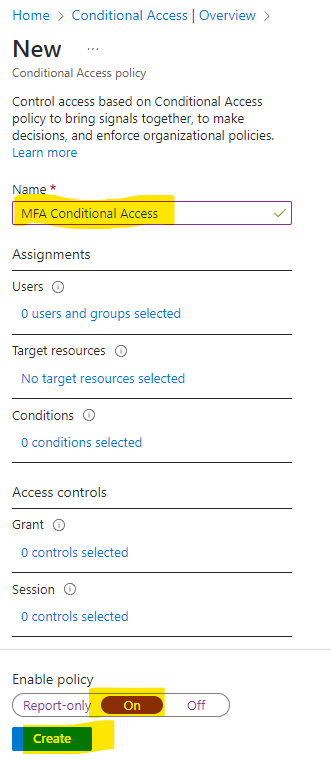
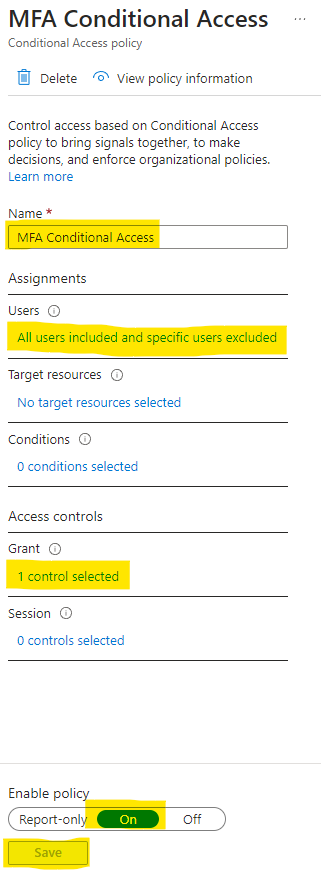
vault backup: 2023-10-13 11:36:56

diff --git a/HowTo/Office 365 Migration with BitTitan/Office 365 Tenant End Point Preparation (Source or Destination).md b/HowTo/Office 365 Migration with BitTitan/Office 365 Tenant End Point Preparation (Source or Destination).md
@@ -91,7 +91,7 @@ Example:
 
 ## Conditional Access Policy Setup
 Prerequisite: Tenant must have a Microsoft Entra ID P2 license or equivalent - to be able to create conditional access policies.  
-**Location: Office365\Microsoft Entra Admin Center\Protection\Conditional Access\**
+**Location: Office365\Microsoft Entra Admin Center\Protection\Conditional Access**
 - *These instructions assume that this is a new tenant or a tenant that just had the Azure Security Default disabled.  Further careful analysis needs to be done to tenant that already have conditional access policies configured!*
 
 **USE CAUTION - YOU HAVE BEEN WARNED!**
@@ -101,13 +101,13 @@ Prerequisite: Tenant must have a Microsoft Entra ID P2 license or equivalent - t
 Conditional AccessPolicy Setup:
 1. Select 'Create New Policy'
 ![[conditionalaccess1.png]]
-2. Name the policy something relevant: 'MFA Conditional Access'
+2. Name the policy something relevant: 'MFA Conditional Access'. Highlighted areas will need to be edited. 
 ![[conditionalaccess2.png]]
 3. Under Users: Include Select 'all users' under Exclude select 'Users and groups' then add your migration account to the exclude list.
 ![[conditionalaccess3a.png]]![[conditionalaccess3b.png]]
 5. Grant: Select 'Grant Access' then select 'Require multifactor authentication.'
 ![[conditionalaccess4.png]]
-7. Save your policy. (Policy can take 15+ minutes to populate.)
+7. Save your policy. (Policy propagation can take 15+ minutes.)
 8. Verify MFA is disabled for the migration@clientdomain.com user account via the Office365 admin center and test migration account login to Office 365. 
 
 
